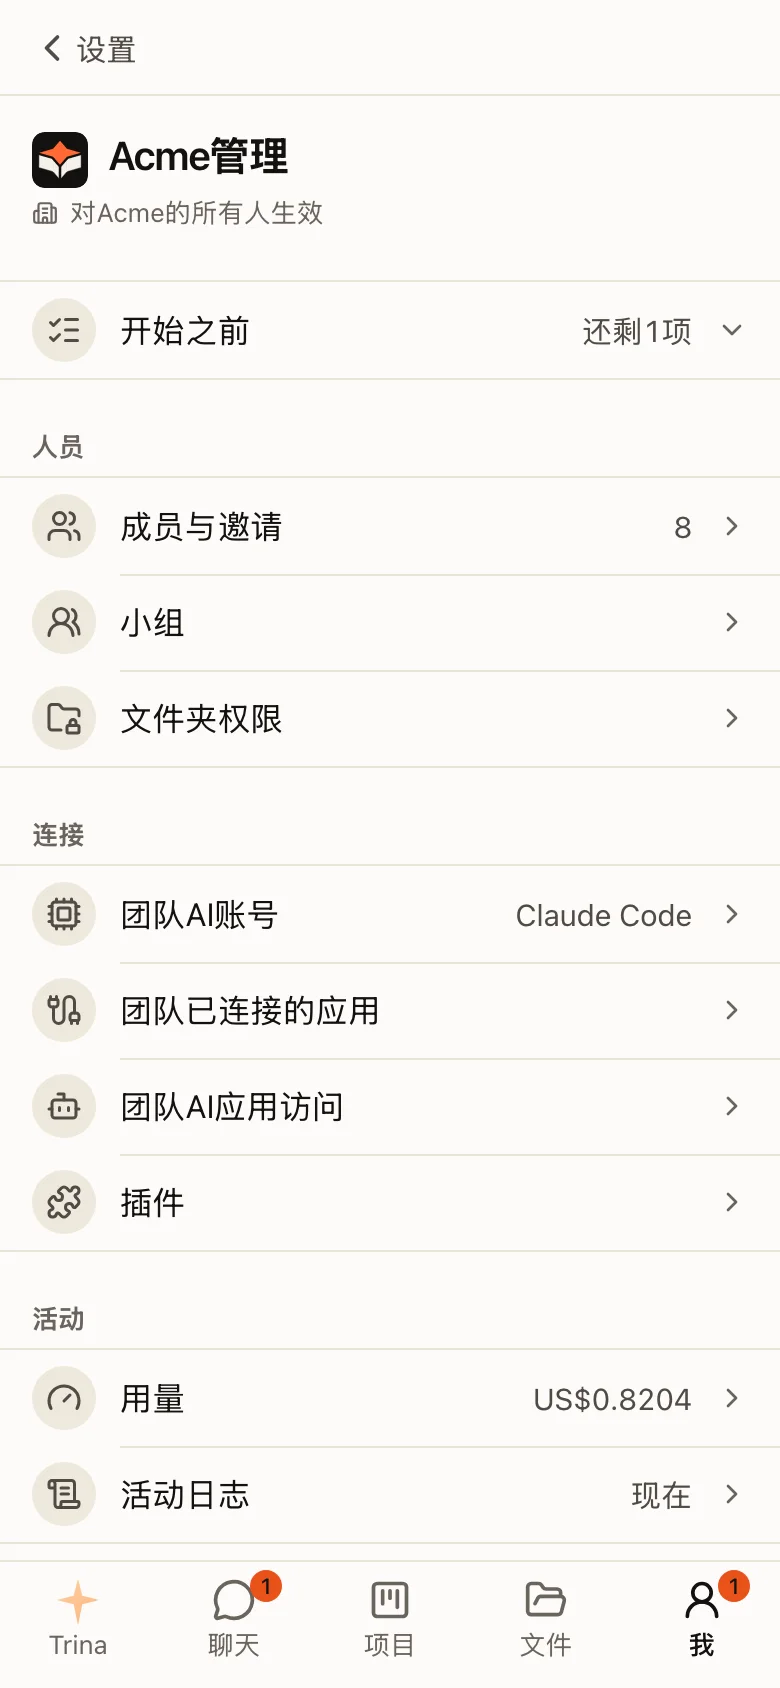
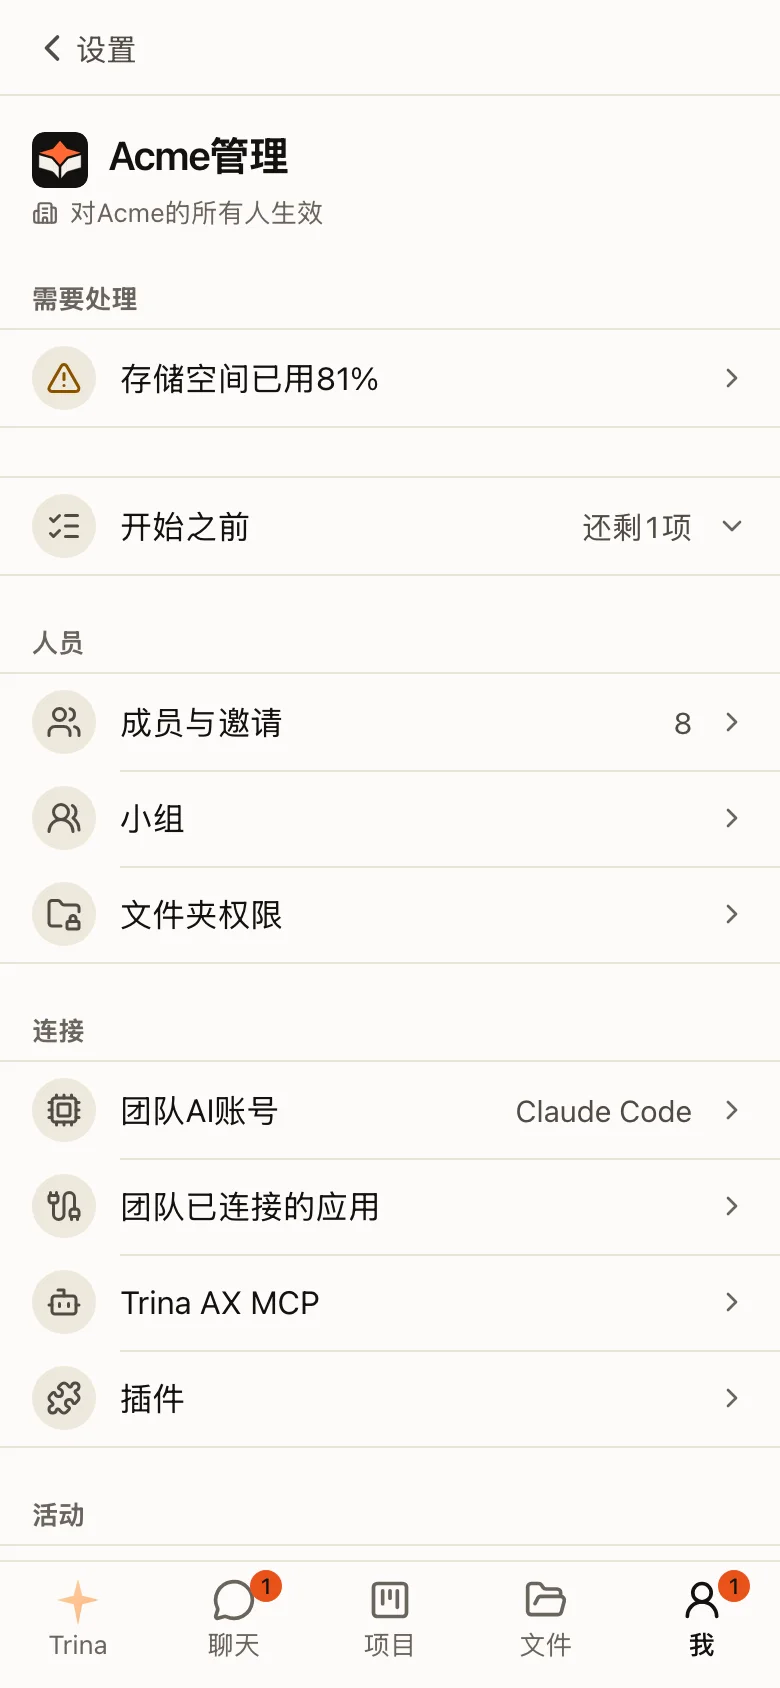
Rename the page "Use from other AI apps" to "Trina AX MCP"
Settings and Admin (and the phone Admin bar) now call it Trina AX MCP in every
language. Docs, the shots that show the menu, and tests follow.

diff --git a/web/src/i18n/ja.ts b/web/src/i18n/ja.ts
@@ -1458,7 +1458,7 @@ export const ja: Record<MessageKey, string> = {
   'integrations.advanced': "詳細設定",
   'connectors.address': "接続アドレス",
   'connectors.empty': "接続済みのアプリはありません。",
-  "aiApps.title": "ほかのAIアプリから使う",
+  "aiApps.title": "Trina AX MCP",
   "aiApps.adminDesc": "Claude などの外部AIアプリが、各自の権限でチームのファイルを使います。サーバーの設定でオンにします。",
   "appConnectors.more": "{name} のその他の操作",
   "appConnectors.connectedMembers": "{count, plural, one {#人のメンバーが接続中} other {#人のメンバーが接続中}}",
@@ -3276,7 +3276,7 @@ export const ja: Record<MessageKey, string> = {
   'admin.onComputerEngine': "このAIはサーバーでサインインします。パソコンで管理画面を開いて設定します。",
   'admin.team.providers': "チームのAIアカウント",
   'admin.team.integrations': "チームの連携サービス",
-  'admin.team.aiApps': "チームのAIアプリ連携",
+  'admin.team.aiApps': "Trina AX MCP",
   'admin.onComputerSlack': "Slackアプリの作成とキーの貼り付けは、パソコンの管理画面で行います。",
   'admin.onComputerAdd': "アドレスでサービスを追加するのは、パソコンの管理画面で行います。",
   'admin.onComputerFolder': "新しいフォルダの接続は、パソコンの管理画面で行います。",

diff --git a/web/src/i18n/es.ts b/web/src/i18n/es.ts
@@ -1458,7 +1458,7 @@ export const es: Record<MessageKey, string> = {
   'integrations.advanced': "Avanzado",
   'connectors.address': "Dirección de conexión",
   'connectors.empty': "No hay aplicaciones conectadas.",
-  "aiApps.title": "Usar desde otras apps de IA",
+  "aiApps.title": "Trina AX MCP",
   "aiApps.adminDesc": "Las apps de IA externas como Claude usan los archivos del equipo con los permisos de cada persona. Se activa en la configuración del servidor.",
   "appConnectors.more": "Más opciones de {name}",
   "appConnectors.connectedMembers": "{count, plural, one {# miembro conectado} other {# miembros conectados}}",
@@ -3276,7 +3276,7 @@ export const es: Record<MessageKey, string> = {
   'admin.onComputerEngine': "Esta IA inicia sesión en el servidor. Configúrala en una computadora: abre Administración allí.",
   'admin.team.providers': "Cuentas de IA del equipo",
   'admin.team.integrations': "Apps conectadas del equipo",
-  'admin.team.aiApps': "Acceso de apps de IA del equipo",
+  'admin.team.aiApps': "Trina AX MCP",
   'admin.onComputerSlack': "Crear la app de Slack y pegar sus claves se hace en Administración en una computadora.",
   'admin.onComputerAdd': "Añadir un servicio por su dirección se hace en Administración en una computadora.",
   'admin.onComputerFolder': "Conectar una carpeta nueva se hace en Administración en una computadora.",

diff --git a/web/src/i18n/zh.ts b/web/src/i18n/zh.ts
@@ -1457,7 +1457,7 @@ export const zh: Record<MessageKey, string> = {
   "integrations.advanced": "高级",
   "connectors.address": "连接地址",
   "connectors.empty": "没有已连接的应用。",
-  "aiApps.title": "在其他 AI 应用中使用",
+  "aiApps.title": "Trina AX MCP",
   "aiApps.adminDesc": "Claude 等外部 AI 应用会按每个人自己的权限使用团队文件。此功能在服务器设置中开启。",
   "appConnectors.more": "{name}的更多选项",
   "appConnectors.connectedMembers": "{count, plural, one {#位成员已连接} other {#位成员已连接}}",
@@ -3271,7 +3271,7 @@ export const zh: Record<MessageKey, string> = {
   "admin.onComputerEngine": "此引擎在服务器上登录。请在电脑上设置：在电脑上打开管理。",
   "admin.team.providers": "团队AI账号",
   "admin.team.integrations": "团队已连接的应用",
-  "admin.team.aiApps": "团队AI应用访问",
+  "admin.team.aiApps": "Trina AX MCP",
   "admin.onComputerSlack": "创建Slack应用并粘贴其密钥需要在电脑上的管理中完成。",
   "admin.onComputerAdd": "通过地址添加服务需要在电脑上的管理中完成。",
   "admin.onComputerFolder": "连接新文件夹需要在电脑上的管理中完成。",

diff --git a/web/src/i18n/id.ts b/web/src/i18n/id.ts
@@ -1486,7 +1486,7 @@ export const id: Record<MessageKey, string> = {
   'integrations.advanced': "Lanjutan",
   'connectors.address': "Alamat koneksi",
   'connectors.empty': 'Belum ada aplikasi terhubung.',
-  "aiApps.title": "Pakai dari aplikasi AI lain",
+  "aiApps.title": "Trina AX MCP",
   "aiApps.adminDesc": "Aplikasi AI luar seperti Claude memakai file tim dengan izin masing-masing orang. Dinyalakan di pengaturan server.",
   "appConnectors.more": "Lainnya untuk {name}",
   "appConnectors.connectedMembers": "{count, plural, one {# anggota terhubung} other {# anggota terhubung}}",
@@ -3320,7 +3320,7 @@ export const id: Record<MessageKey, string> = {
   'admin.onComputerEngine': "AI ini masuk di server. Atur di komputer: buka Admin di sana.",
   'admin.team.providers': "Akun AI tim",
   'admin.team.integrations': "Aplikasi terhubung tim",
-  'admin.team.aiApps': "Akses aplikasi AI tim",
+  'admin.team.aiApps': "Trina AX MCP",
   'admin.onComputerSlack': "Membuat aplikasi Slack dan menempelkan kuncinya dilakukan di Admin pada komputer.",
   'admin.onComputerAdd': "Menambah layanan lewat alamatnya dilakukan di Admin pada komputer.",
   'admin.onComputerFolder': "Menghubungkan folder baru dilakukan di Admin pada komputer.",

diff --git a/web/src/i18n/en.ts b/web/src/i18n/en.ts
@@ -1486,7 +1486,7 @@ export const en: Record<MessageKey, string> = {
   'integrations.advanced': "Advanced",
   'connectors.address': "Connection address",
   'connectors.empty': 'No connected apps.',
-  "aiApps.title": "Use from other AI apps",
+  "aiApps.title": "Trina AX MCP",
   "aiApps.adminDesc": "Outside AI apps such as Claude use team files with each person's own permissions. It is turned on in the server setup.",
   "appConnectors.more": "More for {name}",
   "appConnectors.connectedMembers": "{count, plural, one {# member connected} other {# members connected}}",
@@ -3320,7 +3320,7 @@ export const en: Record<MessageKey, string> = {
   'admin.onComputerEngine': "This engine signs in on the server. Set it up on a computer: open Admin there.",
   'admin.team.providers': "Team AI accounts",
   'admin.team.integrations': "Team connected apps",
-  'admin.team.aiApps': "Team AI app access",
+  'admin.team.aiApps': "Trina AX MCP",
   'admin.onComputerSlack': "Making the Slack app and pasting its keys is done in Admin on a computer.",
   'admin.onComputerAdd': "Adding a service by its address is done in Admin on a computer.",
   'admin.onComputerFolder': "Connecting a new folder is done in Admin on a computer.",

diff --git a/web/src/i18n/ko.ts b/web/src/i18n/ko.ts
@@ -1485,7 +1485,7 @@ export const ko = {
   'integrations.advanced': "고급",
   'connectors.address': "연결 주소",
   'connectors.empty': '연결된 앱이 없어요.',
-  "aiApps.title": "다른 AI 앱에서 쓰기",
+  "aiApps.title": "Trina AX MCP",
   "aiApps.adminDesc": "Claude 같은 외부 AI 앱이 각자의 권한으로 팀 파일을 써요. 서버 설정에서 켜요.",
   "appConnectors.more": "{name} 더 보기",
   "appConnectors.connectedMembers": "{count, plural, one {멤버 #명 연결됨} other {멤버 #명 연결됨}}",
@@ -3319,7 +3319,7 @@ export const ko = {
   'admin.onComputerEngine': "이 AI는 서버에서 로그인해요. 컴퓨터에서 관리자 화면을 열어 설정해요.",
   'admin.team.providers': "팀 AI 계정",
   'admin.team.integrations': "팀 연결 서비스",
-  'admin.team.aiApps': "팀 AI 앱 연결",
+  'admin.team.aiApps': "Trina AX MCP",
   'admin.onComputerSlack': "Slack 앱 만들기와 키 붙여넣기는 컴퓨터의 관리자 화면에서 해요.",
   'admin.onComputerAdd': "주소로 서비스를 추가하는 건 컴퓨터의 관리자 화면에서 해요.",
   'admin.onComputerFolder': "새 폴더 연결은 컴퓨터의 관리자 화면에서 해요.",

diff --git a/web/src/pages/settingsTabs.ts b/web/src/pages/settingsTabs.ts
@@ -42,7 +42,7 @@ const TABS: SettingsTab[] = [
   // the person's own connections (Google Drive, Gmail, Slack, MCP services): everyone's, with its pages under it
   { id: 'connectors', label: 'integrations.title', find: 'settings.find.services', icon: Cable, group: 'connections', keywords: ['Google', 'Drive', 'Gmail', 'Slack', 'Notion', 'MCP'] },
   { id: 'providers', label: 'settings.providers', find: 'settings.find.credentials', icon: KeyRound, group: 'connections', keywords: ['Claude', 'Codex', 'ChatGPT', 'AI'] },
-  { id: 'ai-apps', label: 'aiApps.title', find: 'settings.find.connectors', icon: Bot, group: 'connections', keywords: ['Claude', 'Claude Code'] },
+  { id: 'ai-apps', label: 'aiApps.title', find: 'settings.find.connectors', icon: Bot, group: 'connections', keywords: ['MCP', 'Claude', 'Claude Code'] },
   { id: 'dev-env-sites', label: 'settings.devEnvSites', find: 'settings.find.devEnvSites', icon: Network, group: 'connections' },
   { id: 'notifications', label: 'notifications.title', find: 'settings.find.notifications', icon: Bell, group: 'app' },
   { id: 'apps', label: 'settings.apps', find: 'settings.find.apps', icon: Download, group: 'app' },

diff --git a/web/test/e2e/ai-apps.spec.ts b/web/test/e2e/ai-apps.spec.ts
@@ -156,9 +156,9 @@ test('Admin › AI apps: in the Admin menu, the same four apps with Connect when
   await page.route('**/api/connectors/remote', (r) => r.fulfill({ json: { configured: on, resource: on ? RESOURCE : null, items: [] } }))
   await signIn(page)
   await page.goto('/admin')
-  await page.getByTestId('admin-menu').getByRole('link', { name: '다른 AI 앱에서 쓰기' }).click()
+  await page.getByTestId('admin-menu').getByRole('link', { name: 'Trina AX MCP' }).click()
   await expect(page).toHaveURL(/\/admin\/ai-apps$/)
-  await expect(page.getByTestId('admin-ai-apps-header')).toContainText('다른 AI 앱에서 쓰기')
+  await expect(page.getByTestId('admin-ai-apps-header')).toContainText('Trina AX MCP')
   const list = page.getByTestId('admin-ai-app-list')
   await expect(list.locator(':scope > li')).toHaveCount(4)
   await list.getByTestId('ai-app-connect-claude-code').click()

diff --git a/web/test/e2e/phone-settings-rows.spec.ts b/web/test/e2e/phone-settings-rows.spec.ts
@@ -286,7 +286,7 @@ test.describe('TC-262: the phone app does not offer what only works on a compute
     await expect(page.getByTestId('integration-on-computer')).toHaveCount(0)
   })
 
-  test('2. Me › Use in other AI apps — connected apps only, plus "set up on a computer"', async ({ page }) => {
+  test('2. Me › Trina AX MCP — connected apps only, plus "set up on a computer"', async ({ page }) => {
     await me(page, 'settings-row-ai-apps')
     await expect(page.getByTestId('ai-apps-on-computer')).toHaveText(t['aiApps.onComputer'])
     await expect(page.getByTestId('ai-app-list')).toHaveCount(0)

diff --git a/docs/site/agents/mcp-connector.md b/docs/site/agents/mcp-connector.md
@@ -23,7 +23,7 @@ The connector is off until the server has a public HTTPS address for it. Use one
 
 :::steps
 #### Copy the connection address
-Open **Settings › Use from other AI apps**. It shows the connection address, which ends in `/mcp`.
+Open **Settings › Trina AX MCP**. It shows the connection address, which ends in `/mcp`.
 
 #### Add it to Claude
 Choose **Connect** next to Claude, Claude Code, Codex or Other apps for the exact steps with Copy. In Claude, add a custom connector (Claude's own Settings › Connectors) with the address. In Claude Code, run `claude mcp add --transport http <name> <address>`, then `/mcp` to sign in. In Codex (the CLI, the IDE extension and the Codex app use the same setup), run `codex mcp add <name> --url <address>`: Codex finds the sign-in and opens it at once (else `codex mcp login <name>`). Leave Codex's `oauth_resource` setting unset: the server takes one `resource` only.
@@ -43,13 +43,13 @@ The sign-in page lets you choose, whatever the app asked for:
 | **Write in conversations** (only with reading) | `mcp:rooms.write` | unticked |
 | Managing the team's groups (owners and admins) | `mcp:admin` | always granted, no box |
 
-Claude and Claude Code ask for reading only, so tick **Write files** if Claude should create, edit or upload files. The app is told exactly what you allowed. To change it later, disconnect in **Settings › Use from other AI apps** and connect again.
+Claude and Claude Code ask for reading only, so tick **Write files** if Claude should create, edit or upload files. The app is told exactly what you allowed. To change it later, disconnect in **Settings › Trina AX MCP** and connect again.
 
 The sign-in accepts Claude's own callback (Claude on the web, desktop and phone), ChatGPT's connector callback (`https://chatgpt.com/connector_platform_oauth_redirect`) and a local `http://localhost/…/callback` or `http://127.0.0.1/…/callback` (Claude Code, Codex and other apps that sign in on the computer). ChatGPT has not been tried end to end yet.
 
-**Settings › Use from other AI apps** lists your connected apps, with when they connected and **Disconnect**. A connection also ends when the app session that authorized it ends.
+**Settings › Trina AX MCP** lists your connected apps, with when they connected and **Disconnect**. A connection also ends when the app session that authorized it ends.
 
-Admins see whether this server's connector is on in **Admin › Use from other AI apps**. The other direction, apps Trina's AI uses with
+Admins see whether this server's connector is on in **Admin › Trina AX MCP**. The other direction, apps Trina's AI uses with
 your own account such as **Google Drive**, is **Settings › Connectors** ([Google Drive setup](https://github.com/trina-app/trina-ax/blob/main/docs/GOOGLE-DRIVE.md)).
 
 ## Protocol
@@ -99,13 +99,13 @@ With **Read conversations** the app reads your conversations (team rooms, the ro
 - The message looks exactly like one you typed. Nothing marks it as sent by an app.
 - What the app read (files, and messages of rooms) is not sent where people who could not see it would read it. The connection keeps that until you disconnect it.
 - Neither reading nor sending writes an audit entry, and no message, name or room is logged.
-- A connection made before conversations came to AI apps never gains them. **Settings › Use from other AI apps** shows "Connect again to use conversations" under it: disconnect it and connect again.
+- A connection made before conversations came to AI apps never gains them. **Settings › Trina AX MCP** shows "Connect again to use conversations" under it: disconnect it and connect again.
 
 ## Group management (owners and admins)
 
 An owner's or admin's Claude can manage the team's groups, as in **Admin › Groups**. Their new connections get it automatically, whatever the app asked for; the sign-in page says so in one line. Members never get it.
 
-A connection made before this, or while the person was a member, keeps what was approved then: a connection never gains a permission after it was allowed. **Settings › Use from other AI apps** shows "Connect again once to use group management" under such a connection; disconnect it and connect again.
+A connection made before this, or while the person was a member, keeps what was approved then: a connection never gains a permission after it was allowed. **Settings › Trina AX MCP** shows "Connect again once to use group management" under such a connection; disconnect it and connect again.
 
 | Tool | What it does |
 |---|---|

diff --git a/docs/INTEGRATIONS.md b/docs/INTEGRATIONS.md
@@ -15,7 +15,7 @@ apps this server's AI uses with a person's own account (`web/src/lib/connectors.
 Admin › App connectors shows whether the server has a Google client and how many members are connected, and an admin
 can set the client up there. These connections are the other direction from the "connectors" of
 `server/src/connectors/remote-mcp` (outside AI apps such as Claude using this server's files), which are Settings › AI
-apps and Admin › Use from other AI apps.
+apps and Admin › Trina AX MCP.
 
 Gmail, Google Calendar, Google Docs and Google Sheets are built-in connectors too
 ([GOOGLE-APPS.md](GOOGLE-APPS.md)): a card each, one Google sign-in per app, the tools of the Google Workspace MCP
@@ -46,7 +46,7 @@ team app changes them only after its own confirmation, which an outside model ca
   (`mcp:rooms.write`) unticked and only with reading (a page without these boxes grants neither); `mcp:admin` comes
   with every new connection of an active owner or admin (no
   box; one line on the page says so), never a member's. The token's `scope` names exactly what was granted, and a
-  refresh can only narrow it, so an earlier connection without `mcp:admin` connects again (Settings › Use from other AI apps says so).
+  refresh can only narrow it, so an earlier connection without `mcp:admin` connects again (Settings › Trina AX MCP says so).
 - `upload_file`: base64 bytes in the call, at most 20 MiB, in practice files up to about 50 KB.
 - `create_upload_link`: a one-time `PUT <origin>/connector-uploads/<token>` URL for a larger file (at most 50 MiB,
   10 minutes, one path). Claude Code runs `curl -T "<local file>" "<url>"`. The permissions are checked when the link

diff --git a/docs/site/zh/use/connect-apps.md b/docs/site/zh/use/connect-apps.md
@@ -26,7 +26,7 @@ Trina AX 可以连接两类东西：
 | 在 Slack 中向 Trina AX 提问 | 管理员操作一次，然后每人操作一次 | **管理 › 已连接的应用 › Slack** | [Slack](slack.md) |
 | 让 AI 使用 Notion、Linear、Atlassian、Figma、GitHub 等应用 | 你为自己设置，管理员为团队设置 | **设置 › 连接器**或**管理 › 已连接的应用** | [Notion、Linear 等应用](mcp.md) |
 | 让 AI 使用公司自己的系统（API），或需要用你自己的登录应用的服务，例如 NAVER WORKS | 管理员 | **管理 › 已连接的应用** › **通过地址添加** | [公司自己的 API](api-connections.md) |
-| 在 Claude 或 ChatGPT 中使用你在 Trina AX 中的文件 | 你 | **设置 › 在其他 AI 应用中使用** | [Team AX MCP 连接器](../../agents/mcp-connector.md)（英文） |
+| 在 Claude 或 ChatGPT 中使用你在 Trina AX 中的文件 | 你 | **设置 › Trina AX MCP** | [Team AX MCP 连接器](../../agents/mcp-connector.md)（英文） |
 
 要打开**设置**，点左侧栏底部你的头像，再点**设置**（在手机上是**我**标签页）。所有者和管理员在同一个菜单中还能看到**管理**。
 
